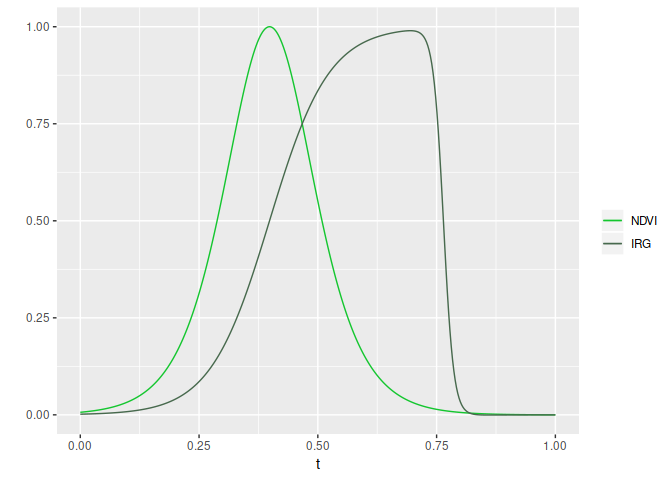
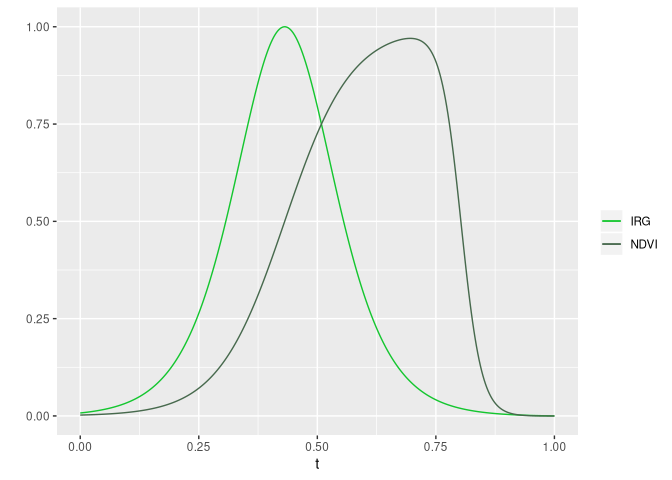
render README

diff --git a/README.md b/README.md
@@ -3,7 +3,7 @@
 state and is being actively
 developed.](https://www.repostatus.org/badges/latest/active.svg)](https://www.repostatus.org/#active)
 [![lifecycle](https://img.shields.io/badge/lifecycle-maturing-blue.svg)](https://www.tidyverse.org/lifecycle/#maturing)
-[![develVersion](https://img.shields.io/badge/devel%20version-0.1.1-blue.svg?style=flat)](https://github.com/robitalec/irg)
+[![](https://img.shields.io/badge/devel%20version-0.1.1-blue.svg)](https://github.com/robitalec/irg)
 [![CRAN
 status](https://www.r-pkg.org/badges/version/irg)](https://cran.r-project.org/package=irg)
 [![pipeline
@@ -67,15 +67,18 @@ ndvi <- fread(system.file("extdata", "ndvi.csv", package = "irg"))
 # Calculate IRG using example data: a raw NDVI time series
 IRG <- irg(ndvi)
 
-# Plot one year for one individual (please excuse the manual color scale)
-ggplot(IRG[yr == 2007 & id == 12377]) +
-    geom_line(aes(t, irg, color = '#14c62f'), show.legend = TRUE) +
-    geom_line(aes(t, fitted, color = '#47694d'), show.legend = TRUE) +
-    scale_color_identity("", labels = c('NDVI', 'IRG'), guide = 'legend') + 
-    labs(y = '')
+# Plot IRG and NDVI for 1 year at 1 point (please excuse the manual color scale)
+cols <- c('IRG' = '#14c62f', 'NDVI' = '#47694d')
+ggplot(IRG[yr == 2007 & id == sample(id, 1)], aes(x = t)) +
+    geom_line(aes(y = irg, color = 'IRG')) +
+    geom_line(aes(y = fitted, color = 'NDVI')) +
+    scale_color_manual(values = cols) +
+    labs(y = '', color = '')
 ```
 
-<img src="man/figures/README-ggIRG-1.png" style="max-width:100%;min-width:40px;margin:0px auto;"/>
+<img src="man/figures/README-ggIRG-1.png" width="100%" />
+
+<!-- <img src="man/figures/README-ggIRG-1.png" style="max-width:100%;min-width:40px;margin:0px auto;"/> -->
 
 ## Functions
 
